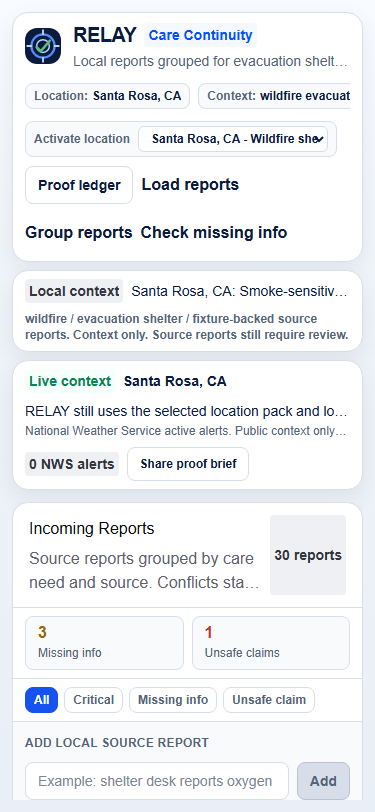
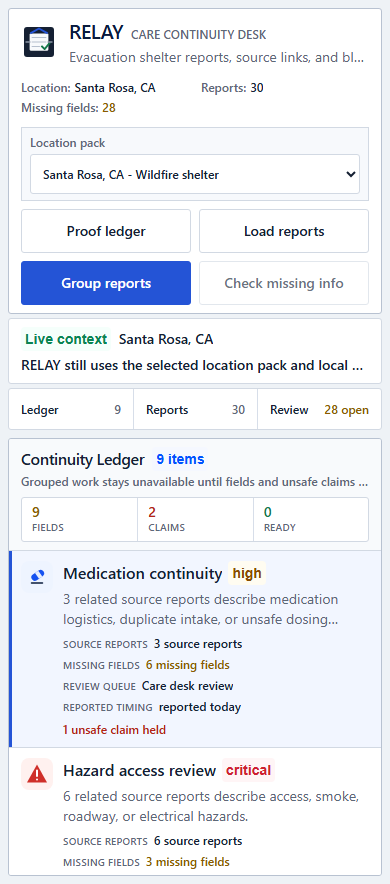
Refresh Relay GitHub showcase

diff --git a/README.md b/README.md
@@ -1,16 +1,25 @@
 # RELAY Care Continuity
 
-RELAY is a reviewer workspace for evacuation-shelter report triage.
+RELAY is an evacuation-shelter review desk for turning messy local reports into a blocked/ready care-continuity ledger.
 
-It groups messy wildfire reports into a **Care Continuity Ledger** so a human reviewer can see medication continuity, oxygen or power-dependent support, infant supplies, mobility transport, hazard access, public-information review, volunteer capacity, missing fields, unsafe claims, and handoff state in one place.
+The demo is deliberately narrow: one Santa Rosa wildfire shelter, 30 replayed source reports, 9 continuity items, a proof ledger, and a review dock that keeps handoff unavailable while required fields or unsafe claims remain open.
 
-The public preview is intentionally narrow: one wildfire/community-center scenario, replayed Gemma-style outputs, one continuity ledger, one review pane, and a handoff state that stays unavailable while required information or unsafe claims remain open.
+The interface is built like incident-operations software, not a generic dashboard: source reports on the left, a dense continuity ledger in the center, and a decision dock on the right.
 
 [Live preview](https://web-zwin-uxs-projects.vercel.app) | [Proof ledger](https://web-zwin-uxs-projects.vercel.app/proof) | [Kaggle writeup draft](docs/kaggle-writeup.md) | [Technical proof](docs/technical-proof.md)
 
 ![RELAY desktop preview](showcase/relay-care-desktop.png)
 
 Replay uses mock data. RELAY does not contact emergency services, dispatch responders, give medical advice, or make operational decisions.
+
+## First 60 Seconds
+
+If you are scanning the repo quickly:
+
+- Click `Load reports` to load the 30-source-report wildfire replay.
+- Click `Group reports` to create the 9-item continuity ledger.
+- Open `Medication continuity` to see source links, six open fields, an unsafe insulin claim hold, and a disabled handoff action.
+- Open `/proof` to inspect the public-safe run receipt.
 
 ## Why Review This Repo
 
@@ -22,7 +31,7 @@ Replay uses mock data. RELAY does not contact emergency services, dispatch respo
 
 ## Live Proof
 
-Latest live smoke: June 20, 2026. The Vercel production alias loaded cleanly at desktop and mobile sizes with no browser console errors.
+Latest design-review smoke: June 20, 2026. gstack browse loaded the populated desktop and mobile workspace against the local API with no browser console errors.
 
 | Desktop | Mobile |
 | --- | --- |
@@ -101,7 +110,7 @@ Details: `docs/supabase-proof-ledger.md`
 ## Run Locally
 
 ```bash
-cd relay
+cd relay-care-continuity
 npm install
 cd apps/api
 python -m venv .venv